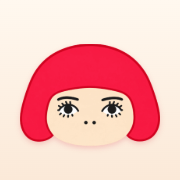
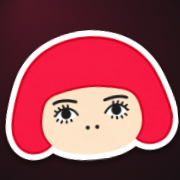
v1.0.6: 아이콘을 다이컷 스티커 모양으로

diff --git a/public/config.js b/public/config.js
@@ -64,7 +64,7 @@ function setPresetId(id) {
 // 앱 버전 — 배포할 때마다 올린다 (큰 기능: 가운데 숫자, 고침: 끝 숫자)
 const APP = {
   name: 'Hongido Stickers',
-  version: '1.0.5',
+  version: '1.0.6',
   date: '2026-11-21',
   maker: 'Seoulrain',        // 서울비
 };

diff --git a/SPEC.md b/SPEC.md
@@ -112,6 +112,7 @@
 - 2026-11-21: v1.0.1 — 넣는 방향 글자를 'FEED'로(한글이 가로로 넓어 보여서), 만든 사람을 'Made by Seoulbi for Hongido'로(두 사람처럼 읽혀서). README에 만든 계기(캐논 PIXMA TS8190, PS-108 대체로 A-one 29602, 캔바 위치 맞추기의 번거로움), 용지 추가 요청 방법, Claude Code로 만들었다는 내용 추가. 저장소를 공개로 전환.
 - 2026-11-21: v1.0.2 — 만든 사람 표기를 README와 앱 모두 'Made by seoulrain for Hongido'로 통일.
 - 2026-11-21: v1.0.3 — 표기를 'Seoulrain'(첫 글자 대문자)으로.
+- 2026-11-21: v1.0.6 — 홈 화면 아이콘·파비콘을 '다이컷 스티커'로: 어두운 바탕 위 홍이도 얼굴을 폭 90%로 꽉 채우고, 얼굴 모양대로 두꺼운 흰 테두리 + 살짝 기울임 + 그림자. 캐릭터는 크게 보이면서 스티커 앱이라는 것을 암시.
 - 2026-11-21: v1.0.5 — 앱 안 로고를 'hongid(얼굴) stickers'로(stickers는 옅고 가늘게), 아래 '홍이도 스티커' 줄은 뜻이 겹쳐서 뺌.
 - 2026-11-21: v1.0.4 — 홈 화면 아이콘·파비콘을 홍이도 얼굴(크림색 바탕)로 바꿈. 홈 화면 이름·브라우저 탭 제목을 'hongido stickers'로.
 - 2026-11-21: 홈 화면 아이콘 변경 — 흰 바탕에 모서리가 접혀 올라간 오렌지 스티커 용지, 그 위에 살짝 어긋난 검정 3×3 칼선. 홈 화면에서 '스티커 인쇄'로 알아보게.

diff --git a/README.md b/README.md
@@ -6,7 +6,7 @@
 
 <p align="center">
   사진만 고르면 스티커 용지의 정해진 칸에 꼭 맞게 인쇄되는 아이폰용 웹앱<br>
-  <b>v1.0.5</b> · 2026.11.21 · Made by Seoulrain for Hongido
+  <b>v1.0.6</b> · 2026.11.21 · Made by Seoulrain for Hongido
 </p>
 
 ---
@@ -98,6 +98,7 @@ python -m http.server 8000 --directory public
 ## 버전
 | 버전 | 날짜 | 내용 |
 |---|---|---|
+| v1.0.6 | 2026.11.21 | 아이콘을 다이컷 스티커 모양(홍이도 얼굴 + 흰 테두리)으로 꽉 채워 |
 | v1.0.5 | 2026.11.21 | 앱 안 로고를 'hongid(얼굴) stickers'로, 아래 한글 줄 빼기 |
 | v1.0.4 | 2026.11.21 | 홈 화면 아이콘·파비콘을 홍이도 얼굴로, 홈 화면 이름을 'hongido stickers'로 |
 | v1.0.3 | 2026.11.21 | 만든 사람 표기를 Seoulrain(첫 글자 대문자)으로 |
